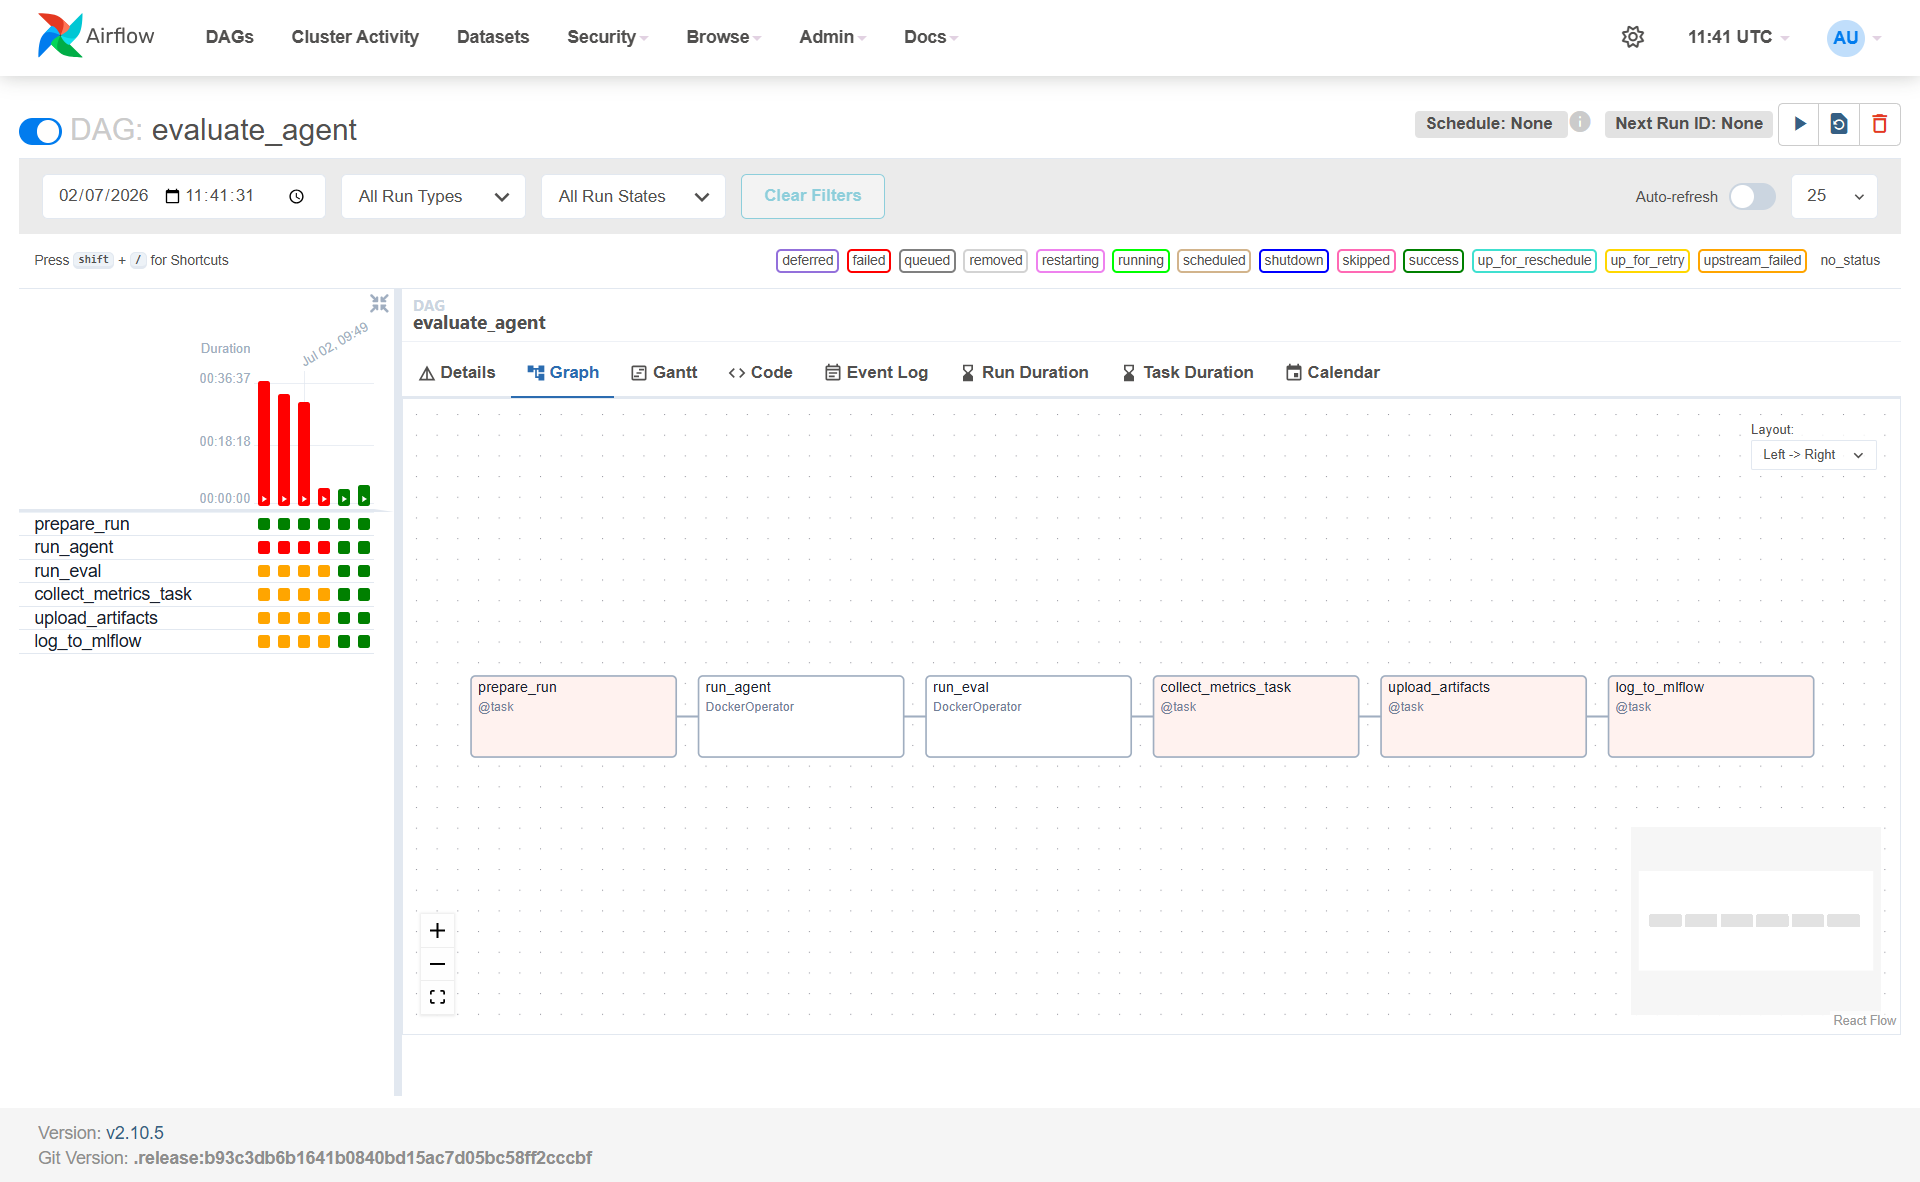
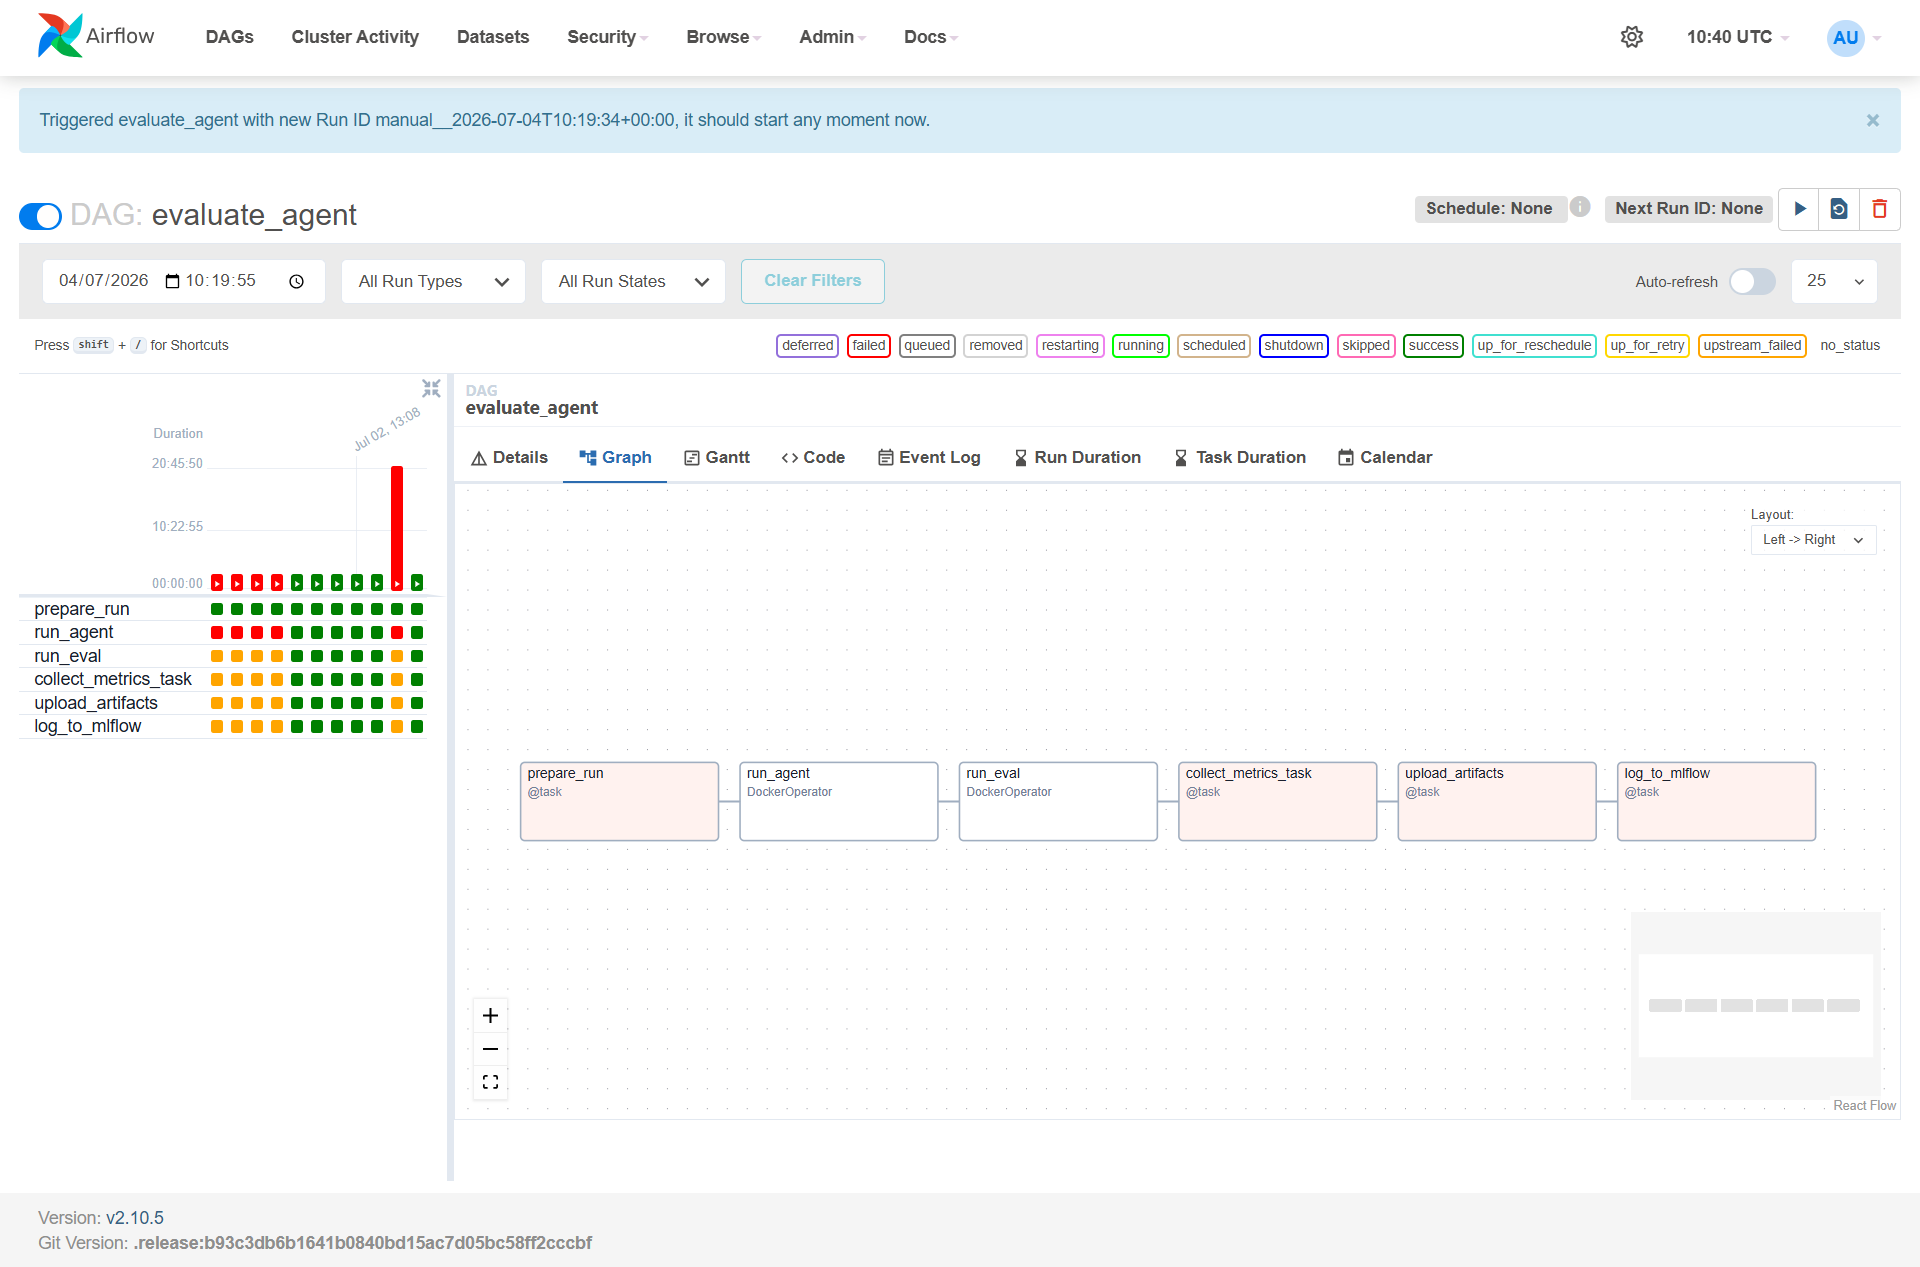
Update REPORT.md to include details on run metadata and empty patch notes
- Added information about the committed example of run metadata located in `sample/run_manifest/`.
- Included a note regarding empty patches and the necessity of setting a valid `NEBIUS_API_KEY` in the `.env` file before re-running the pipeline.

diff --git a/dags/evaluate_agent.py b/dags/evaluate_agent.py
@@ -17,6 +17,7 @@ from pipeline.run_steps import (
     build_manifest,
     build_run_config,
     collect_metrics,
+    docker_pipeline_env,
     load_run_config,
     log_mlflow_run,
     prepare_run_dir,
@@ -53,11 +54,11 @@ def pipeline_mounts() -> list[Mount]:
         Mount(source=f"{host_root}/logs", target="/mlops-assignment/logs", type="bind"),
         Mount(source="/var/run/docker.sock", target="/var/run/docker.sock", type="bind"),
     ]
-    env_file = HOST_PROJECT_ROOT / ".env"
-    if env_file.exists():
+    # Check .env where Airflow can read it; bind-mount using the host path for Docker.
+    if (PROJECT_ROOT / ".env").exists():
         mounts.append(
             Mount(
-                source=str(env_file),
+                source=str(HOST_PROJECT_ROOT / ".env"),
                 target="/mlops-assignment/.env",
                 type="bind",
                 read_only=True,
@@ -108,10 +109,7 @@ def evaluate_agent_dag():
         api_version="auto",
         auto_remove="force",
         command=["bash", "{{ 'scripts/docker-run-agent.sh' }}"],
-        environment={
-            "RUN_DIR": docker_run_dir_template(),
-            "MSWEA_COST_TRACKING": "ignore_errors",
-        },
+        environment=docker_pipeline_env(docker_run_dir_template()),
         mounts=pipeline_mounts(),
         docker_url=DOCKER_URL,
         mount_tmp_dir=False,
@@ -127,10 +125,7 @@ def evaluate_agent_dag():
         api_version="auto",
         auto_remove="force",
         command=["bash", "{{ 'scripts/docker-run-eval.sh' }}"],
-        environment={
-            "RUN_DIR": docker_run_dir_template(),
-            "MSWEA_COST_TRACKING": "ignore_errors",
-        },
+        environment=docker_pipeline_env(docker_run_dir_template()),
         mounts=pipeline_mounts(),
         docker_url=DOCKER_URL,
         mount_tmp_dir=False,

diff --git a/pipeline/run_steps.py b/pipeline/run_steps.py
@@ -46,6 +46,19 @@ def subprocess_env() -> dict[str, str]:
     }
 
 
+def docker_pipeline_env(run_dir: str) -> dict[str, str]:
+    """Environment for DockerOperator pipeline containers."""
+    env = {
+        "RUN_DIR": run_dir,
+        "MSWEA_COST_TRACKING": "ignore_errors",
+    }
+    for key in ("NEBIUS_API_KEY", "NEBIUS_ADMIN_KEY"):
+        value = load_env_file(PROJECT_ROOT / ".env").get(key)
+        if value:
+            env[key] = value
+    return env
+
+
 def resolve_swebench_config_path() -> Path:
     """Return path to mini-swe-agent SWE-bench benchmark config."""
     candidates = [

diff --git a/REPORT.md b/REPORT.md
@@ -156,7 +156,7 @@ runs/<run-id>/
 }
 ```
 
-Full run directories are gitignored (`runs/`). A tarball for each run is uploaded to MinIO when `S3_BUCKET` is configured.
+Full run directories are gitignored (`runs/`). A committed example of the run metadata lives in `sample/run_manifest/` (`config.json`, `metrics.json`, `manifest.json`). A tarball for each run is uploaded to MinIO when `S3_BUCKET` is configured.
 
 ## Completed evaluation example
 
@@ -172,6 +172,8 @@ Full run directories are gitignored (`runs/`). A tarball for each run is uploade
 | Resolve rate | 0.0 |
 
 The pipeline completed end-to-end: agent trajectories were produced, SWE-bench evaluation ran, metrics were written, artifacts were uploaded to MinIO, and the run was logged in MLflow.
+
+**Note on empty patches:** The documented run `run_with_storage` produced empty patches (`resolve_rate=0.0`) because `NEBIUS_API_KEY` never reached the pipeline container. `pipeline_mounts()` checked for `.env` at the host path from inside the Airflow container (where that path is not visible), so the bind mount was skipped. This is fixed: the mount check uses `/opt/mlops-assignment/.env`, and `DockerOperator` also passes `NEBIUS_API_KEY` from `.env` explicitly.
 
 **Remote artifact URI:**
 